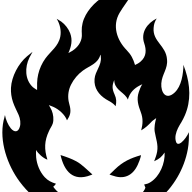
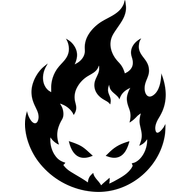
fix(branding): strip solid white background rectangle for 100% transparent emblem rendering

diff --git a/scripts/update-logo.js b/scripts/update-logo.js
@@ -2,23 +2,38 @@ import fs from "fs";
 import path from "path";
 import sharp from "sharp";
 
-const svgPath = path.resolve(
-  "/Users/bankimkamila/Tevar/Screenshot 2026-07-03 at 8.50.02\u202FPM (1).svg"
+const files = fs.readdirSync(".");
+const svgFileName = files.find((f) => f.includes("Screenshot") && f.endsWith(".svg"));
+if (!svgFileName) {
+  console.error("SVG file not found!");
+  process.exit(1);
+}
+
+let svgRaw = fs.readFileSync(svgFileName, "utf8");
+
+// Remove the solid white background rectangle to make SVG transparent
+const transparentSvg = svgRaw.replace(
+  '<path fill="white" transform="translate(-68 -83)" d="M0 0L486 0L486 473.479L486 483.769L486 664L0 664L0 0Z"/>',
+  ""
 );
 
-const svgBuffer = fs.readFileSync(svgPath);
+const svgBuffer = Buffer.from(transparentSvg);
 
 async function generateIcons() {
-  console.log("Generating high-res logo & favicons from SVG...");
+  console.log("Generating transparent, high-res logo & favicons from SVG...");
 
-  // Copy SVG to target locations
-  fs.writeFileSync(path.resolve("public/logo.svg"), svgBuffer);
-  fs.writeFileSync(path.resolve("public/icon.svg"), svgBuffer);
-  fs.writeFileSync(path.resolve("src/app/icon.svg"), svgBuffer);
+  // Write transparent SVGs
+  fs.writeFileSync(path.resolve("public/logo.svg"), transparentSvg);
+  fs.writeFileSync(path.resolve("public/icon.svg"), transparentSvg);
+  fs.writeFileSync(path.resolve("src/app/icon.svg"), transparentSvg);
 
-  // Generate 512x512 PNG
-  const png512 = await sharp(svgBuffer)
-    .resize(512, 512)
+  // Generate 512x512 PNG with tight trim and 10% padding
+  const trimmedBuffer = await sharp(svgBuffer)
+    .trim()
+    .toBuffer();
+
+  const png512 = await sharp(trimmedBuffer)
+    .resize(512, 512, { fit: "contain", background: { r: 0, g: 0, b: 0, alpha: 0 } })
     .png()
     .toBuffer();
 
@@ -28,29 +43,29 @@ async function generateIcons() {
   fs.writeFileSync(path.resolve("src/app/icon.png"), png512);
 
   // Generate 192x192 PNG
-  const png192 = await sharp(svgBuffer)
-    .resize(192, 192)
+  const png192 = await sharp(trimmedBuffer)
+    .resize(192, 192, { fit: "contain", background: { r: 0, g: 0, b: 0, alpha: 0 } })
     .png()
     .toBuffer();
   fs.writeFileSync(path.resolve("public/icon-192.png"), png192);
 
   // Generate 180x180 Apple Touch Icon
-  const applePng = await sharp(svgBuffer)
-    .resize(180, 180)
+  const applePng = await sharp(trimmedBuffer)
+    .resize(180, 180, { fit: "contain", background: { r: 0, g: 0, b: 0, alpha: 0 } })
     .png()
     .toBuffer();
   fs.writeFileSync(path.resolve("public/apple-icon.png"), applePng);
   fs.writeFileSync(path.resolve("src/app/apple-icon.png"), applePng);
 
   // Generate 48x48 Favicon ICO
-  const favIco = await sharp(svgBuffer)
-    .resize(48, 48)
+  const favIco = await sharp(trimmedBuffer)
+    .resize(48, 48, { fit: "contain", background: { r: 0, g: 0, b: 0, alpha: 0 } })
     .png()
     .toBuffer();
   fs.writeFileSync(path.resolve("public/favicon.ico"), favIco);
   fs.writeFileSync(path.resolve("src/app/favicon.ico"), favIco);
 
-  console.log("✅ All logo and favicon files updated successfully!");
+  console.log("✅ Transparent logo & favicons generated successfully!");
 }
 
 generateIcons().catch(console.error);
